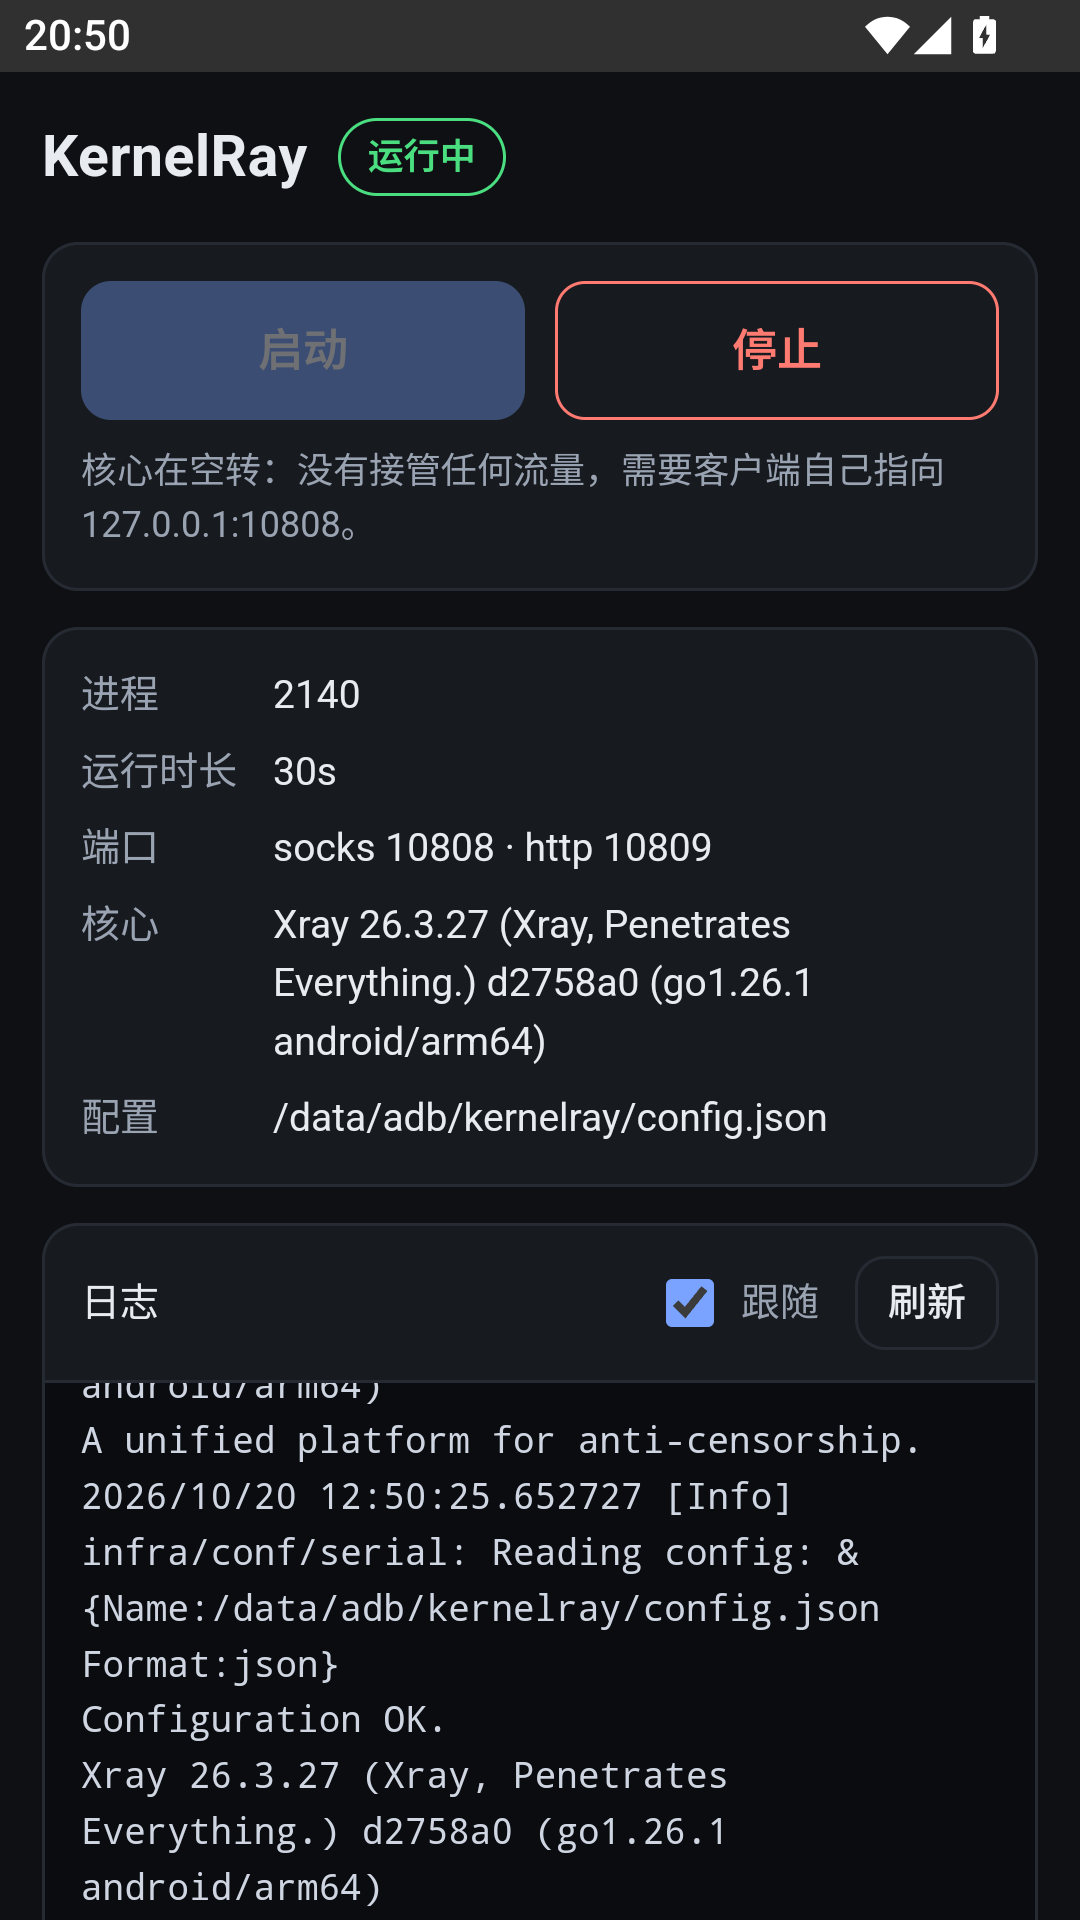
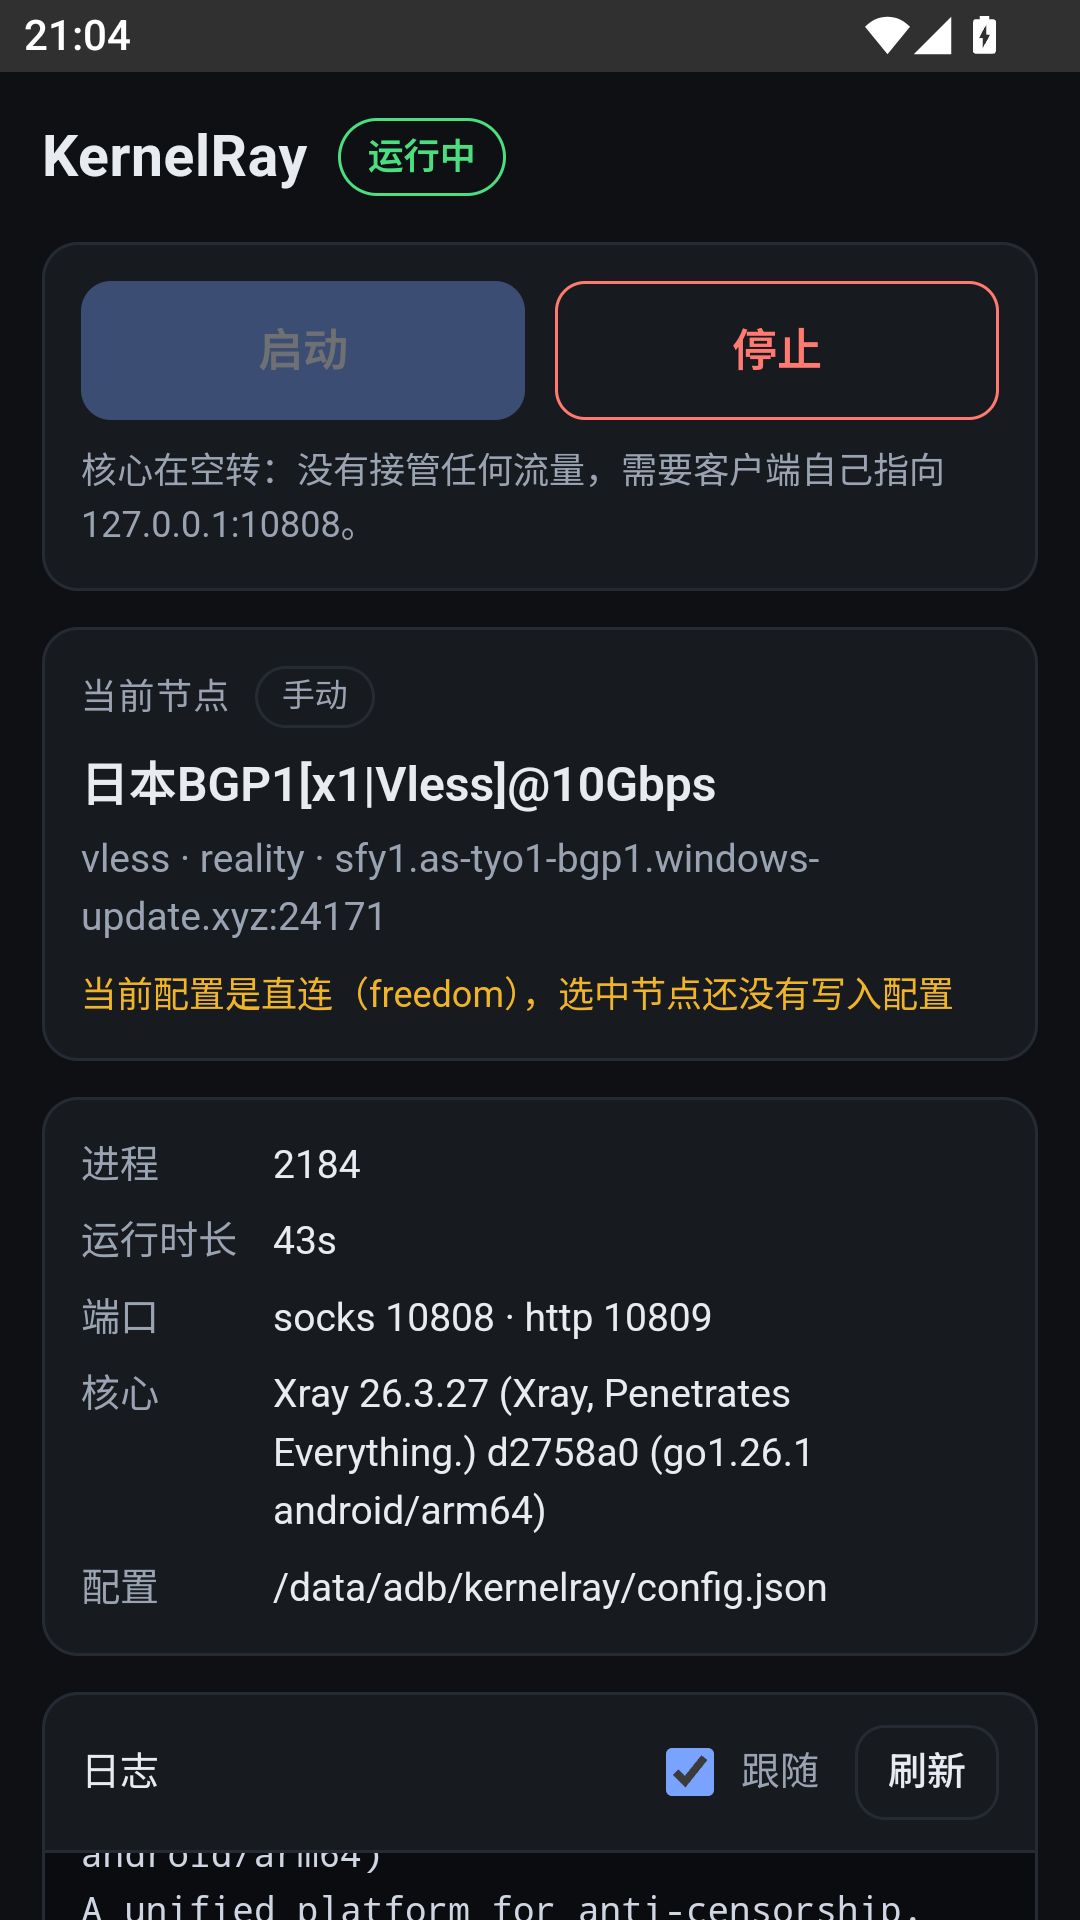
feat(webui): show the currently selected node
The node card resolves state.json's `selected` pointer against the manual
list and any subscription node lists, and states plainly whether config.json
actually carries a proxy outbound — it must not show a node as "in use" while
the core is still running freedom. Switching and applying nodes stay out of
scope, so state.json is read-only from the WebUI.

Both files are read in a single exec (state.json + config.json, split on a
marker) because there is no jq on the device and JSON parsing belongs in JS.

Verified on the emulator: manual node, subscription node, dangling selected id,
and a config that does carry a proxy outbound all render as intended.

diff --git a/module/webroot/index.html b/module/webroot/index.html
@@ -66,8 +66,7 @@
   dl { display: grid; grid-template-columns: auto 1fr; gap: 6px 12px; margin: 0; font-size: 13px; }
   dt { color: var(--muted); white-space: nowrap; }
   dd { margin: 0; overflow-wrap: anywhere; font-variant-numeric: tabular-nums; }
-  .logcard { padding: 0; overflow: hidden; }
-  .logbar {
+  .logcard { padding: 0; overflow: hidden; }  .logbar {
     display: flex; align-items: center; gap: 12px; padding: 10px 12px;
     border-bottom: 1px solid var(--line); font-size: 13px;
   }
@@ -86,6 +85,17 @@
   }
   .banner.show { display: block; }
   .hint { color: var(--muted); font-size: 12px; margin-top: 8px; }
+  .nodehead { display: flex; align-items: center; gap: 8px; margin-bottom: 7px; }
+  .nodehead > span:first-child { color: var(--muted); font-size: 12px; letter-spacing: .04em; text-transform: uppercase; }
+  .pill {
+    font-size: 11px; padding: 1px 8px; border-radius: 999px;
+    border: 1px solid var(--line); color: var(--muted);
+  }
+  .nodename { font-size: 16px; font-weight: 600; overflow-wrap: anywhere; }
+  .nodemeta { color: var(--muted); font-size: 13px; margin-top: 3px; overflow-wrap: anywhere; }
+  .nodemeta code { font: inherit; }
+  .nodehint { font-size: 12px; margin-top: 7px; color: var(--muted); }
+  .nodehint.warn { color: var(--warn); }
   .toast {
     position: fixed; left: 50%; bottom: 24px; transform: translateX(-50%);
     background: var(--card); border: 1px solid var(--line); color: var(--text);
@@ -109,6 +119,16 @@
     <button class="danger" id="stop" disabled>Stop</button>
   </div>
   <div class="hint" id="hint"></div>
+</section>
+
+<section class="card" id="nodecard">
+  <div class="nodehead">
+    <span id="l-node">Current node</span>
+    <span class="pill" id="n-src" hidden></span>
+  </div>
+  <div class="nodename" id="n-name">–</div>
+  <div class="nodemeta" id="n-meta"></div>
+  <div class="nodehint" id="n-hint"></div>
 </section>
 
 <section class="card">
@@ -139,6 +159,9 @@
 
   var MOD = "/data/adb/modules/kernelray";
   var CLI = MOD + "/scripts/kernelray.sh";
+  var DATA = "/data/adb/kernelray";
+  var STATE = DATA + "/state.json";
+  var CONF = DATA + "/config.json";
   var LOG_LINES = 200;
   var POLL_MS = 2000;
 
@@ -152,7 +175,14 @@
     startingMsg: "正在启动…", stoppingMsg: "正在停止…",
     actionFailed: "操作失败", noLog: "（还没有日志）",
     stoppedHint: "核心未运行，设备流量没有被接管。",
-    runningHint: "核心在空转：没有接管任何流量，需要客户端自己指向 127.0.0.1:10808。"
+    runningHint: "核心在空转：没有接管任何流量，需要客户端自己指向 127.0.0.1:10808。",
+    node: "当前节点", srcManual: "手动", srcSub: "订阅",
+    nodeNone: "还没有选中的节点（state.json 里 selected 为空）",
+    nodeMissing: "state.json 的 selected 指向了一个列表里不存在的 id",
+    nodeApplied: "配置里已有代理出站",
+    nodeNotApplied: "当前配置是直连（freedom），选中节点还没有写入配置",
+    nodeNoState: "没有 state.json，节点信息无从得知",
+    nodeSchema: "state.json 的 schema 版本未识别："
   } : {
     start: "Start", stop: "Stop", follow: "Follow", refresh: "Refresh",
     log: "Log", pid: "PID", up: "Uptime", port: "Ports", core: "Core", conf: "Config",
@@ -162,7 +192,14 @@
     startingMsg: "Starting…", stoppingMsg: "Stopping…",
     actionFailed: "Action failed", noLog: "(no log yet)",
     stoppedHint: "Core is not running; device traffic is untouched.",
-    runningHint: "Idle run: no traffic is intercepted. Point your client at 127.0.0.1:10808."
+    runningHint: "Idle run: no traffic is intercepted. Point your client at 127.0.0.1:10808.",
+    node: "Current node", srcManual: "manual", srcSub: "subscription",
+    nodeNone: "No node selected (state.json has an empty selected field)",
+    nodeMissing: "state.json points selected at an id that is not in any list",
+    nodeApplied: "config.json already has a proxy outbound",
+    nodeNotApplied: "config.json is direct (freedom); the selected node is not applied",
+    nodeNoState: "No state.json, so the node is unknown",
+    nodeSchema: "Unrecognised state.json schema: "
   };
 
   var $ = function (id) { return document.getElementById(id); };
@@ -172,7 +209,9 @@
     core: $("v-core"), conf: $("v-conf"), log: $("log"), follow: $("follow"),
     refresh: $("refresh"), toast: $("toast"),
     lPid: $("l-pid"), lUp: $("l-up"), lPort: $("l-port"), lCore: $("l-core"),
-    lConf: $("l-conf"), lLog: $("l-log"), lFollow: $("l-follow")
+    lConf: $("l-conf"), lLog: $("l-log"), lFollow: $("l-follow"),
+    lNode: $("l-node"), nSrc: $("n-src"), nName: $("n-name"),
+    nMeta: $("n-meta"), nHint: $("n-hint")
   };
 
   var hasBridge = typeof window.ksu !== "undefined" && typeof window.ksu.exec === "function";
@@ -192,6 +231,7 @@
     els.lPort.textContent = T.port;
     els.lCore.textContent = T.core;
     els.lConf.textContent = T.conf;
+    els.lNode.textContent = T.node;
   }
 
   function toast(msg) {
@@ -248,6 +288,88 @@
     els.stop.textContent = busy && pending === "stop" ? T.stoppingMsg : T.stop;
   }
 
+  function pickNode(state) {
+    var sel = state.selected;
+    var pools = [];
+    (state.manual || []).forEach(function (n) { if (n) { pools.push({ node: n, src: T.srcManual }); } });
+    (state.subscriptions || []).forEach(function (s) {
+      if (!s) { return; }
+      var src = s.name || s.title || s.url || T.srcSub;
+      (s.nodes || []).forEach(function (n) { if (n) { pools.push({ node: n, src: src }); } });
+    });
+    if (!sel) { return { kind: "none" }; }
+    for (var i = 0; i < pools.length; i++) {
+      if (pools[i].node.id === sel) { return { kind: "found", node: pools[i].node, src: pools[i].src }; }
+    }
+    return { kind: "missing" };
+  }
+
+  // Whether config.json actually points at a proxy. Kept deliberately weak: it
+  // proves an outbound exists, not that it is the selected node, so the wording
+  // never claims more than we know.
+  function configHasProxy(cfg) {
+    if (!cfg || !cfg.outbounds || !cfg.outbounds.length) { return false; }
+    return cfg.outbounds.some(function (o) {
+      var p = (o && o.protocol) || "";
+      return p && p !== "freedom" && p !== "blackhole" && p !== "dns";
+    });
+  }
+
+  function renderNode(state, cfg) {
+    els.nSrc.hidden = true;
+    els.nMeta.textContent = "";
+    els.nHint.className = "nodehint";
+    els.nHint.textContent = "";
+    if (!state) {
+      els.nName.textContent = "–";
+      els.nHint.textContent = T.nodeNoState;
+      return;
+    }
+    var picked = pickNode(state);
+    if (picked.kind === "none") {
+      els.nName.textContent = "–";
+      els.nHint.textContent = T.nodeNone;
+      return;
+    }
+    if (picked.kind === "missing") {
+      els.nName.textContent = "–";
+      els.nHint.textContent = T.nodeMissing;
+      els.nHint.className = "nodehint warn";
+      return;
+    }
+    var n = picked.node;
+    els.nName.textContent = n.name || n.protocol || "node";
+    var bits = [];
+    if (n.protocol) { bits.push(n.protocol); }
+    if (n.transport && n.transport !== "tcp") { bits.push(n.transport); }
+    if (n.security) { bits.push(n.security); }
+    if (n.address) { bits.push(n.address + (n.port ? ":" + n.port : "")); }
+    els.nMeta.textContent = bits.join(" · ");
+    els.nSrc.textContent = picked.src;
+    els.nSrc.hidden = false;
+    if (state.schema && state.schema !== 1) {
+      els.nHint.textContent = T.nodeSchema + state.schema;
+      els.nHint.className = "nodehint warn";
+      return;
+    }
+    var applied = configHasProxy(cfg);
+    els.nHint.textContent = applied ? T.nodeApplied : T.nodeNotApplied;
+    if (!applied) { els.nHint.className = "nodehint warn"; }
+  }
+
+  // One exec for both files: state.json is the intent, config.json is what the
+  // core actually runs, and the UI must never present one as the other.
+  function refreshNode() {
+    return exec("cat " + STATE + " 2>/dev/null; echo '@@CFG@@'; cat " + CONF + " 2>/dev/null")
+      .then(function (r) {
+        var parts = r.stdout.split("@@CFG@@");
+        var state = null, cfg = null;
+        try { state = JSON.parse((parts[0] || "").trim()); } catch (e) { state = null; }
+        try { cfg = JSON.parse((parts[1] || "").trim()); } catch (e) { cfg = null; }
+        renderNode(state, cfg);
+      }).catch(function () {});
+  }
+
   function renderStatus(kv) {
     var state = kv.state || "unknown";
     var phase = kv.phase || "";
@@ -299,6 +421,7 @@
   function refreshAll() {
     if (!hasBridge) { return; }
     refreshStatus();
+    refreshNode();
     refreshLog();
   }
 

diff --git a/README.md b/README.md
@@ -17,7 +17,7 @@ the next version, not this one.
 | listens on | `127.0.0.1:10808` (socks5+socks5h), `127.0.0.1:10809` (http) |
 | outbound | `freedom` — direct, i.e. a plain tunnel you can point clients at |
 | action button | toggles start/stop and prints status (`action.sh`) |
-| WebUI | start / stop the core and watch its log from the KernelSU manager (`module/webroot/`) |
+| WebUI | start / stop the core, watch its log, see the currently selected node |
 | config | `/data/adb/kernelray/config.json`, plain Xray JSON, created once and never overwritten |
 | log | `/data/adb/kernelray/logs/xray.log` |
 
@@ -31,7 +31,7 @@ core really is forwarding traffic — a live pid alone proves nothing.
 | `module/` | The module itself; its **contents** become the root of the release ZIP |
 | `module/module.prop` | id, version and **versionCode** — the only source of version information |
 | `module/scripts/kernelray.sh` | shared helpers: paths, core probing, start/stop, status; also the CLI used by the WebUI |
-| `module/webroot/index.html` | the WebUI: plain HTML/CSS/JS, no build step, no dependencies |
+| `module/webroot/index.html` | the WebUI: plain HTML/CSS/JS, no build step, no dependencies; reads `state.json` for the selected node |
 | `docs/webui.png` | screenshot of the WebUI |
 | `module/config.example.json` | default config, copied to the data dir on first install |
 | `module/bin/xray` | the arm64 core, **not committed** — see `module/bin/README.md` |
@@ -72,8 +72,13 @@ curl -sS -o /dev/null -w '%{http_code}\n' --socks5-hostname 127.0.0.1:11080 http
 <p align="center"><img src="docs/webui.png" width="300" alt="KernelRay WebUI"></p>
 
 Open the module card in the KernelSU manager and tap **WebUI**. The page shows the state
-(running / stopped / failed), pid, uptime, core version and the last 200 log lines, with
-**Start** / **Stop** buttons.
+(running / stopped / failed), pid, uptime, core version, the selected node and the last 200
+log lines, with **Start** / **Stop** buttons.
+
+The node card is a read-only view of `state.json`: it resolves `selected` against the manual
+list and any subscription node lists, then says whether `config.json` actually carries a proxy
+outbound. It cannot switch nodes or apply anything — that is v1 work, so the wording never
+claims a node is in use when the config is still `freedom`.
 
 The page is a dumb client: every button runs the same CLI the shell uses, so behaviour cannot
 diverge between the two entry points.

diff --git a/GLOSSARY.md b/GLOSSARY.md
@@ -37,3 +37,22 @@ _Avoid_: template, preset, profile
 The three files a reader consults to answer "what is the module doing": `runtime/status.json`
 (state/phase), `runtime/xray.pid`, `logs/xray.log`. Status is written, never inferred by callers.
 _Avoid_: health, heartbeat
+
+**节点 (Node)**:
+One proxy endpoint with everything needed to reach it: address, port, protocol and its
+transport/security parameters.
+_Avoid_: server, proxy (that is the role, not the thing), config
+
+**节点库 (Node store)**:
+The user's whole set of nodes — the ones added by hand plus the ones a subscription supplied.
+_Avoid_: list, pool, node list
+
+**订阅 (Subscription)**:
+A URL that yields nodes. Its nodes join the node store, but the store does not own them: a
+refresh replaces them wholesale, while manually added nodes are never touched.
+_Avoid_: feed, provider, source
+
+**当前节点 (Selected node)**:
+The one node in the store marked as in use. It is a pointer into the store, not a copy, so a
+node that disappears from the store leaves the selection dangling rather than stale.
+_Avoid_: active node, current proxy, main node
